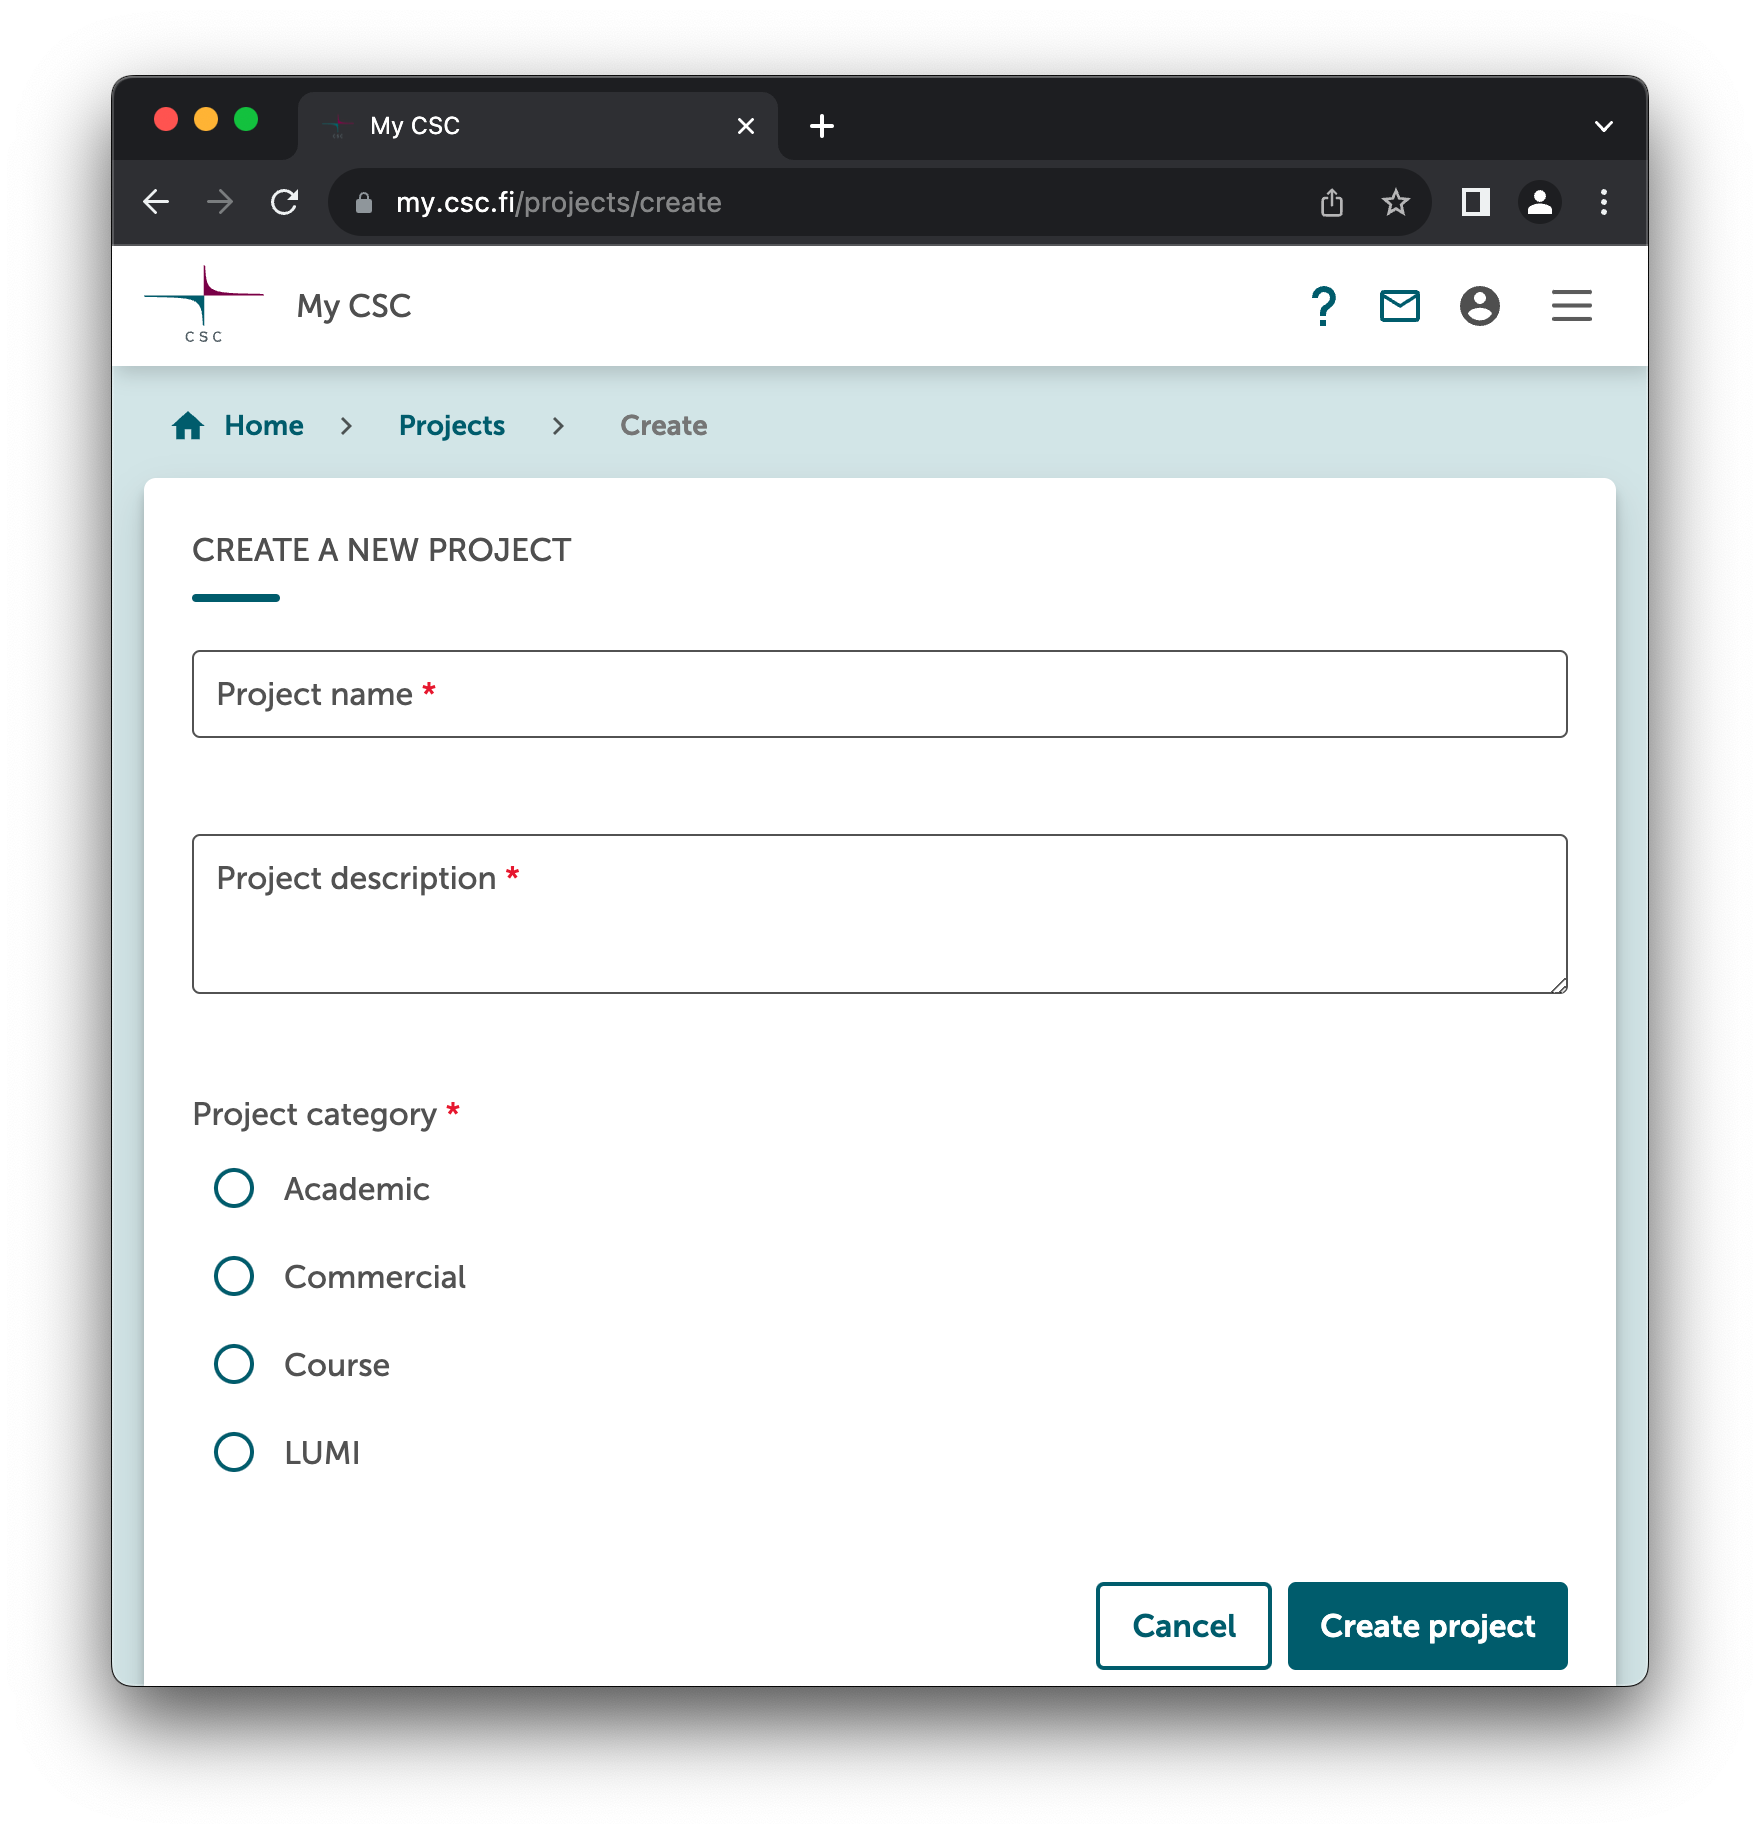
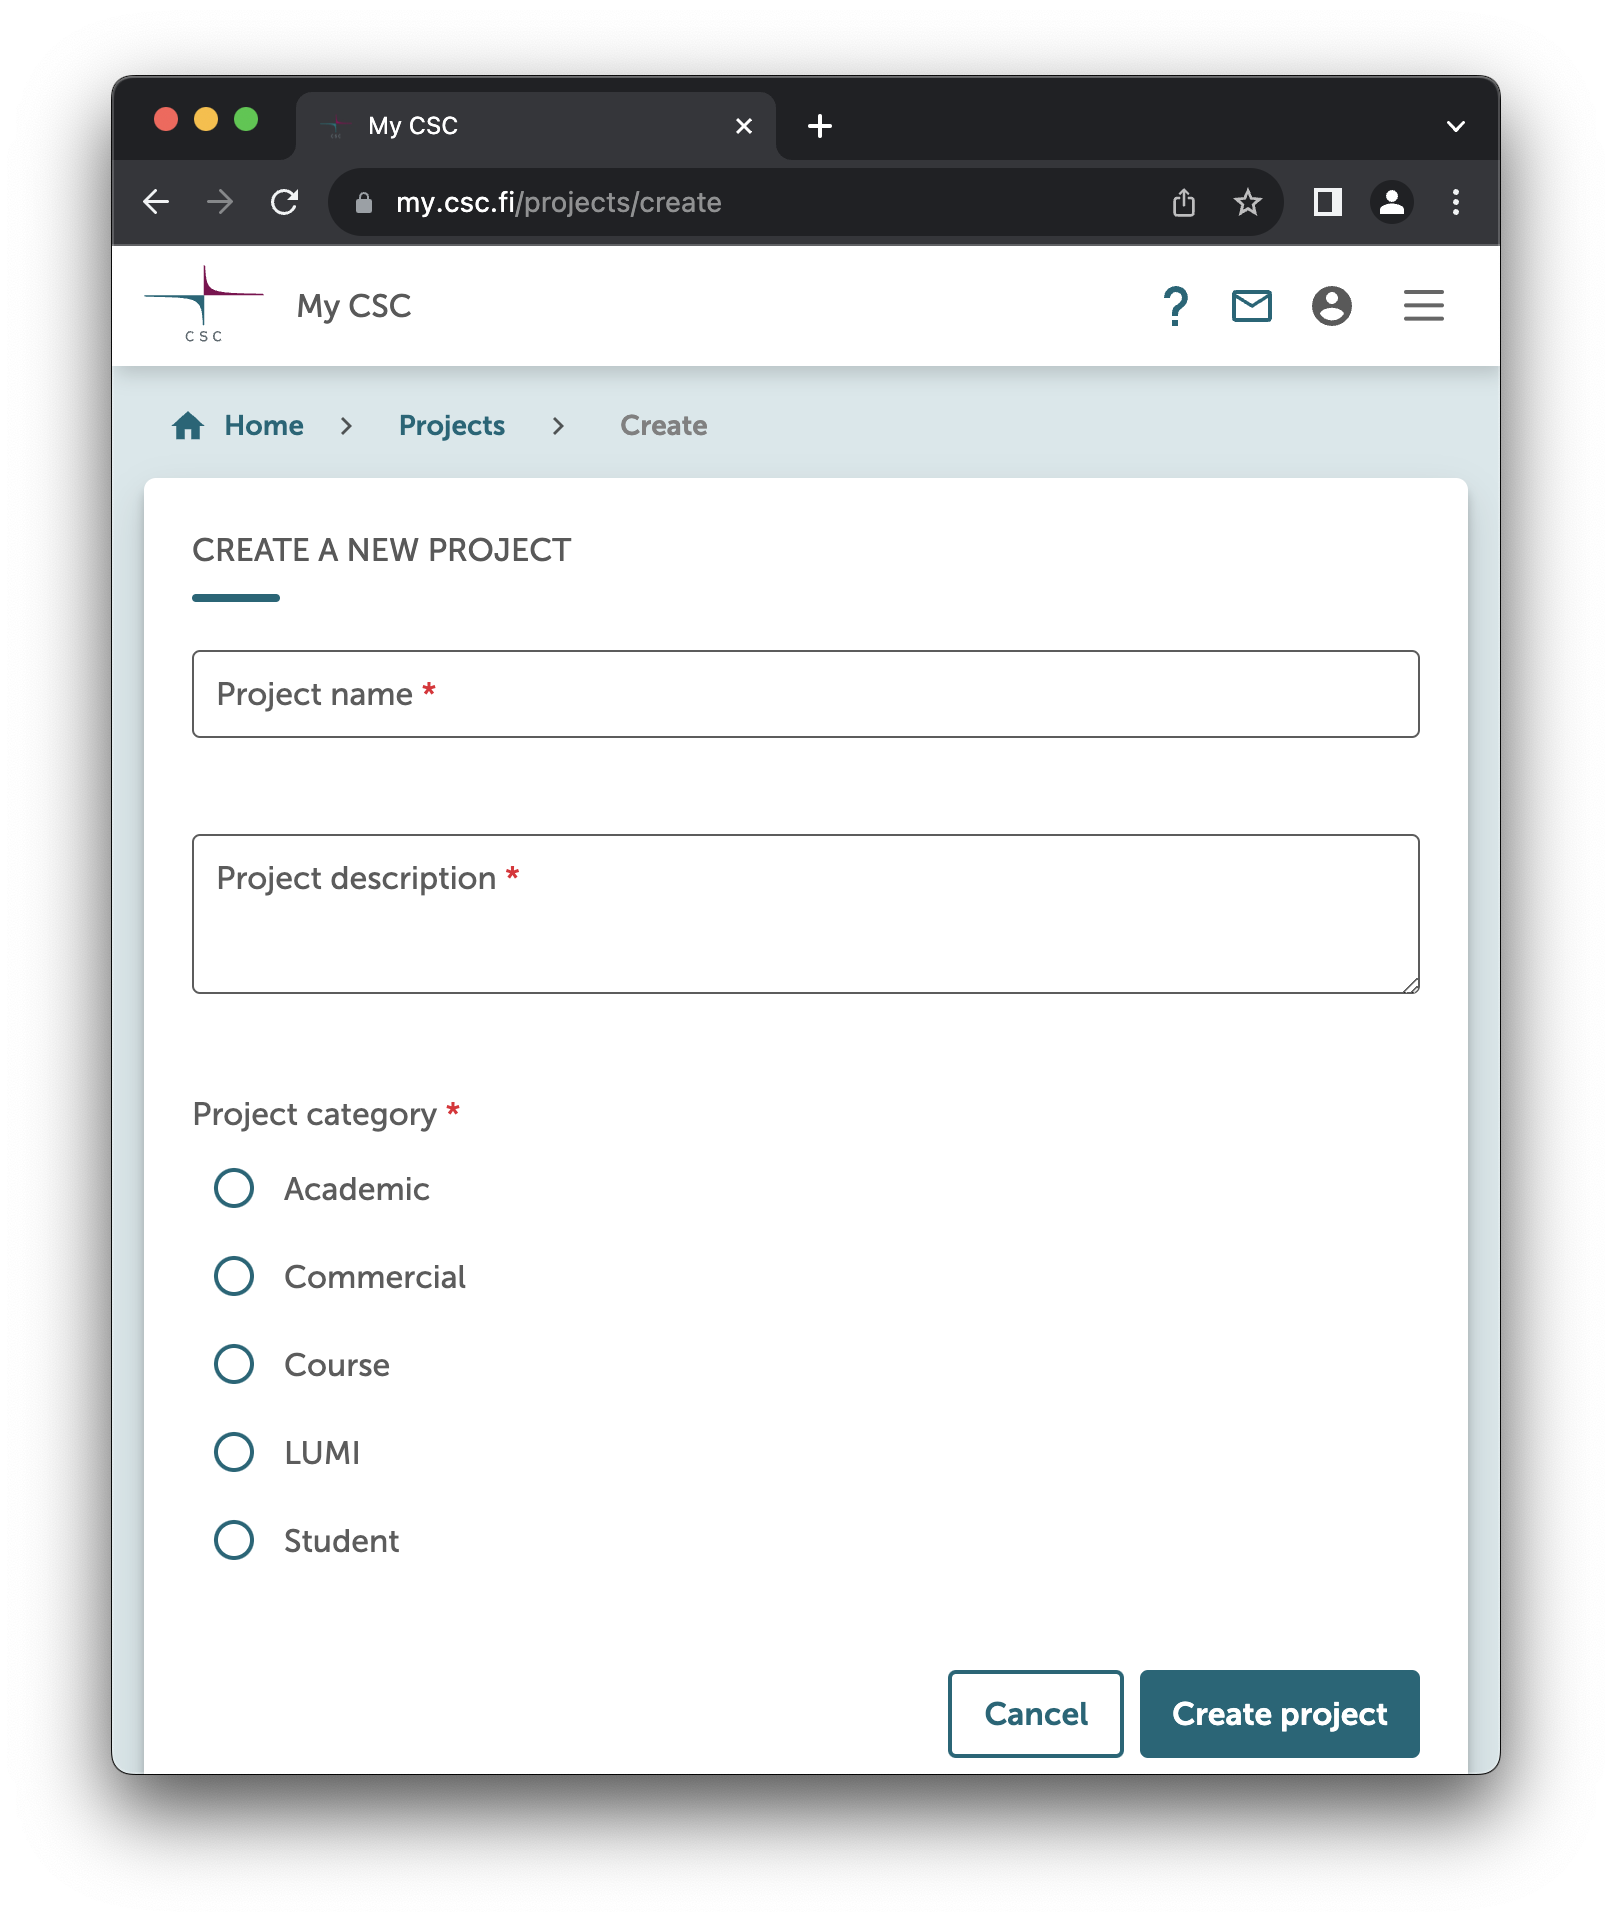
Added student project in project creation instructions.

Changed region(s): [[0.062, 0.0311, 0.9615, 0.9324], [0.1241, 0.5594, 0.2792, 0.8081], [0.1241, 0.4351, 0.3102, 0.4973]]

diff --git a/docs/accounts/how-to-create-new-project.md b/docs/accounts/how-to-create-new-project.md
@@ -35,19 +35,15 @@ Academic projects are usually valid for one year at a time, but they can be exte
 
 ## Commercial
 
-Commercial projects are currently only available through the Service Desk. Please contact servicedesk@csc.fi for more information.
-
-## Student
-
-The student project is identical to the course project except that a student can be the project manager of the student project. Please read the [instructions for the Student Project](#) carefully and then you can continue with the instructions for the [Course Project](how-to-create-new-project#course).
+Commercial projects are currently only available through the Service Desk. Please contact <servicedesk@csc.fi> for more information.
 
 ## Course
 
-Similar to the Academic project category, the Course category is reserved for [free-of-charge](https://research.csc.fi/free-of-charge-use-cases){:target="_blank"} use cases. The main difference is that the course project is a fixed time (maximum of 6 months, non-extendable), fixed resource and is designed to deliver a course once. Re-delivering the course requires a new project. Please note, that all data is deleted at the end of the project.
+The course category is reserved for [free-of-charge](https://research.csc.fi/free-of-charge-use-cases){:target="_blank"} use cases. This category project is a fixed time (maximum of 6 months, non-extendable), fixed resource and is designed to deliver a course once. Re-delivering the course requires a new project. Please note, that all data is deleted at the end of the project.
 
 6. Fill in the course dates and field of science. 
-8. Please have a look at our terms and conditions and confirm your acceptance.
-9. Click **Create project**.
+7. Please have a look at our terms and conditions and confirm your acceptance.
+8. Click **Create project**.
 
 The easiest way to add students to a course project is to use an [invitation link](how-to-add-members-to-project.md#using-invitation-link).
 
@@ -74,3 +70,15 @@ Once you have created the project, [invite the project members](how-to-add-membe
 Please note that LUMI access is provided only with SSH keys, not with passwords. After you have received an acceptance confirmation email for your LUMI project request, please [upload your public SSH key to MyCSC according to the instructions](../computing/connecting.md#setting-up-ssh-keys).
 
 For further information on LUMI projects please visit [Users in Finland](https://www.lumi-supercomputer.eu/get-started-2021/users-in-finland/){:target="_blank"}
+
+## Student
+
+A student can be the project manager of the student project. Please read the [Getting started with the Student Project](../support/tutorials/student_quick.md) carefully and then you can continue with the instructions below.
+
+The student category is reserved for [free-of-charge](https://research.csc.fi/free-of-charge-use-cases){:target="_blank"} use cases. This category project is a fixed time (maximum of 6 months, non-extendable), fixed resource and is designed to support student's work with higher educational institutes' courses. Please note, that all data is deleted at the end of the project.
+
+6. Fill in the course dates and field of science. 
+7. Please have a look at our terms and conditions and confirm your acceptance.
+8. Click **Create project**.
+
+The easiest way to add possible other students to a student project is to use an [invitation link](how-to-add-members-to-project.md#using-invitation-link).

diff --git a/docs/support/tutorials/student_quick.md b/docs/support/tutorials/student_quick.md
@@ -1,0 +1,27 @@
+# Getting started with the Student Project
+
+This tutorial contains all the information you need to get started with student projects. Please read this page carefully!
+
+## tl;dr
+
+1. You are the manager of [the project](student_quick.md#introduction).
+	1. So you are also responsible for what happens in the project. Don't be a jerk.
+2. You choose [the other people](../../accounts/how-to-add-members-to-project.md) in your project.
+	1. Or choose none. Because you're responsible for these guys too.
+3. You decide which [services](student_quick.md#adding-services-to-your-project) are available.
+4. All [BU:s](student_quick.md#resources-and-limitations) are yours to use.
+5. [Have fun!](student_quick.md#using-the-services)
+
+## Introduction
+
+asdf
+
+## Adding services to your project
+
+asdf
+
+## Resources and limitations
+
+asdf
+
+## Using the services
